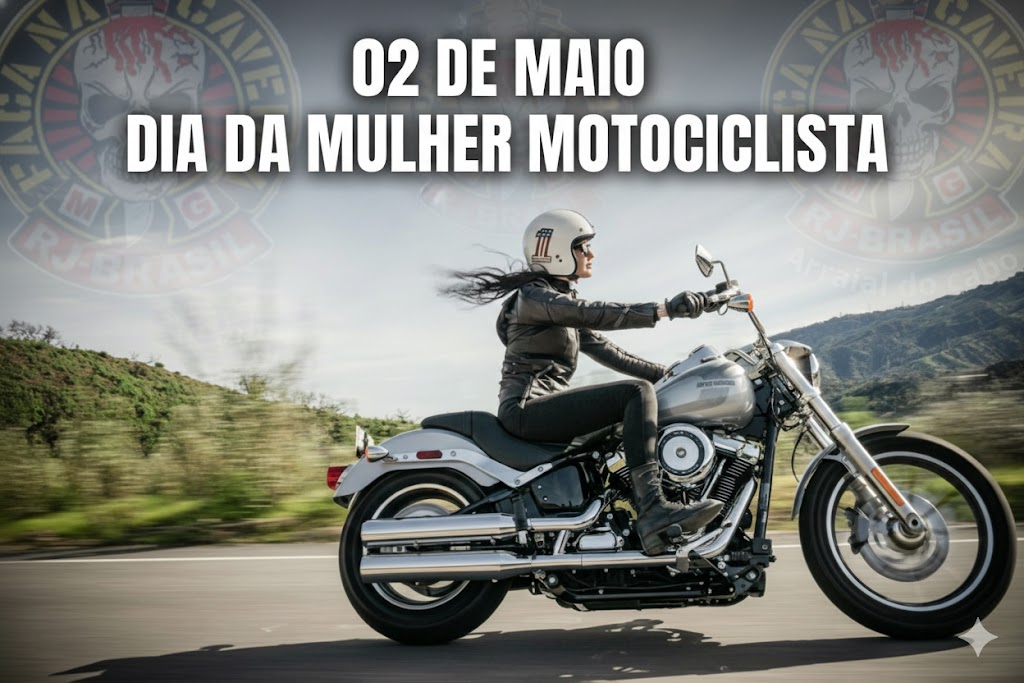
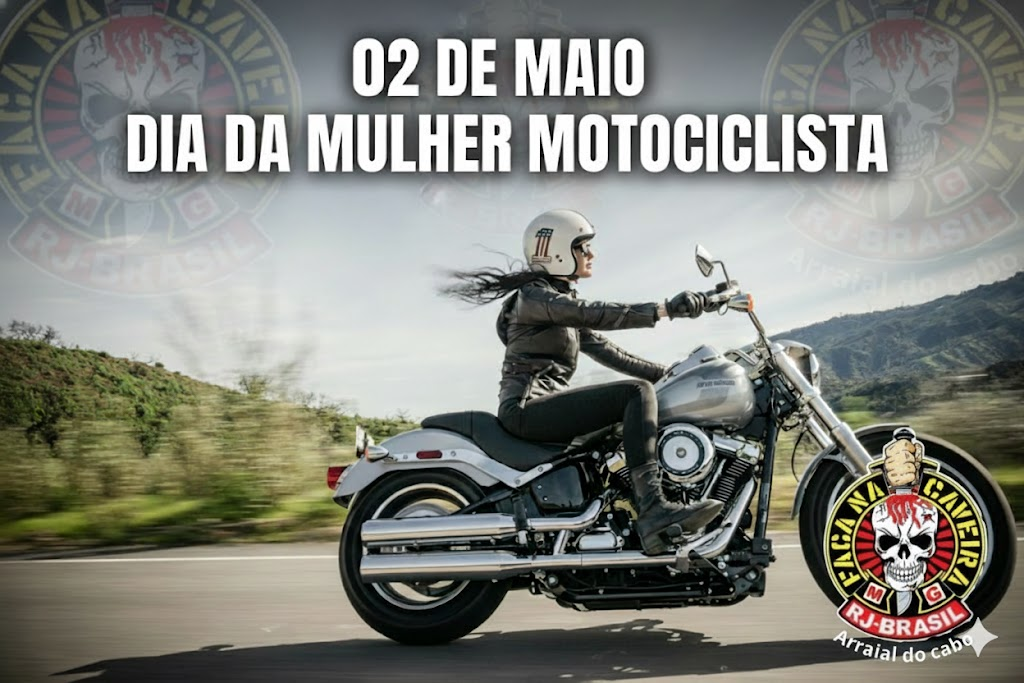
MULHER MOTO

Changed region(s): [[0.7812, 0.6149, 0.9688, 0.9839]]

diff --git a/index.html b/index.html
@@ -153,7 +153,7 @@
           
           
             {
-                "nome": "02 DE MAIO DIA DA MULHER MOTOCICLISTA ,PARABÉNS A TODAS MULHERES APAIXONADAS PELO MOTOCICLISMO ",
+                "nome": "FACA NA CAVEIRA PARABENIZA  TODAS MULHERES APAIXONADAS PELO MOTOCICLISMO ",
                 "data": "25-11",
                 "foto": "DATAS_COMEMORATIVAS_EVENTOS/DIA_MULHER_MOTOCICLISTA.jpg",
                 "cargo": "",
